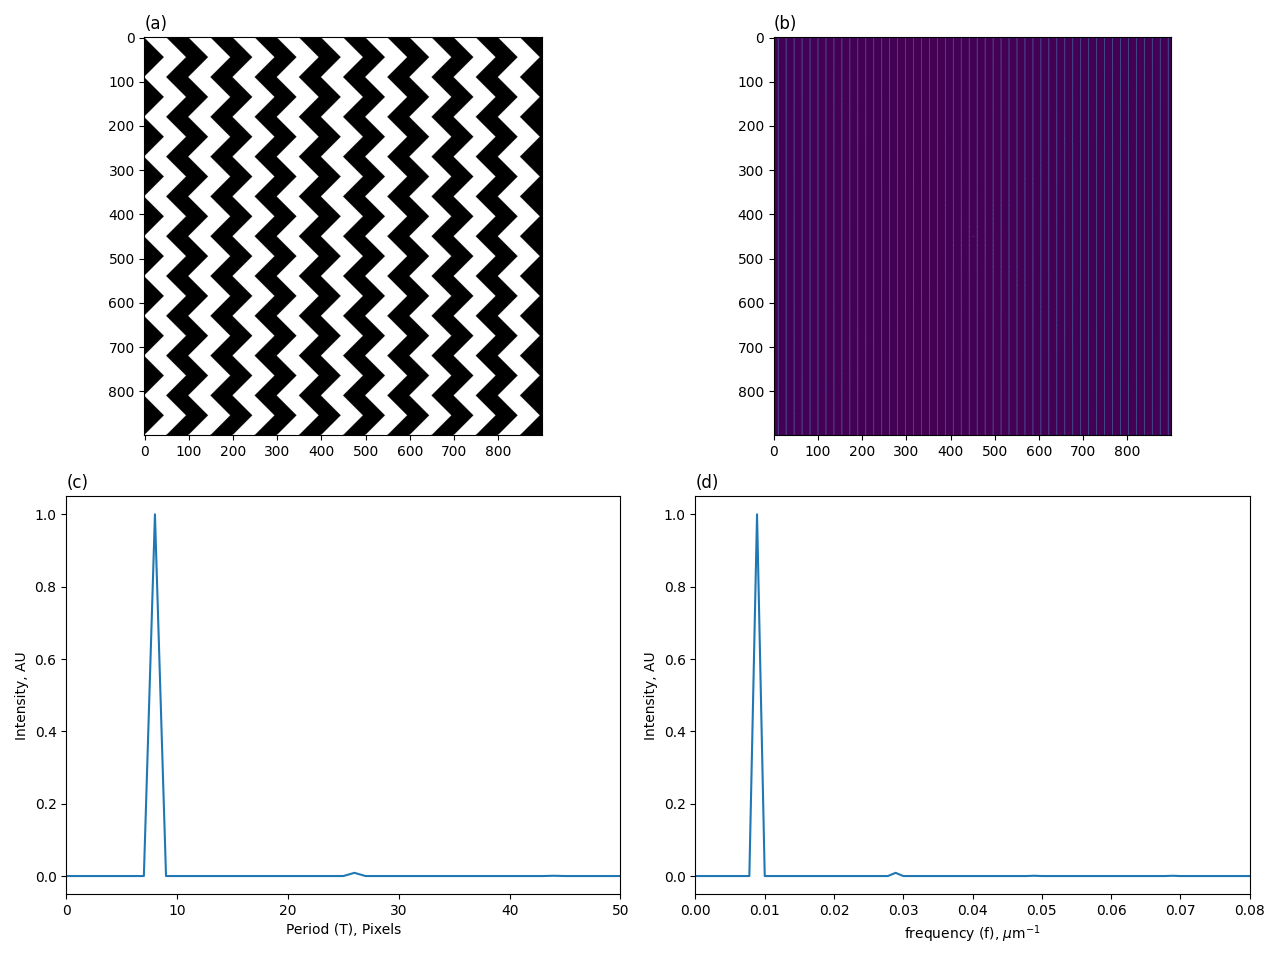
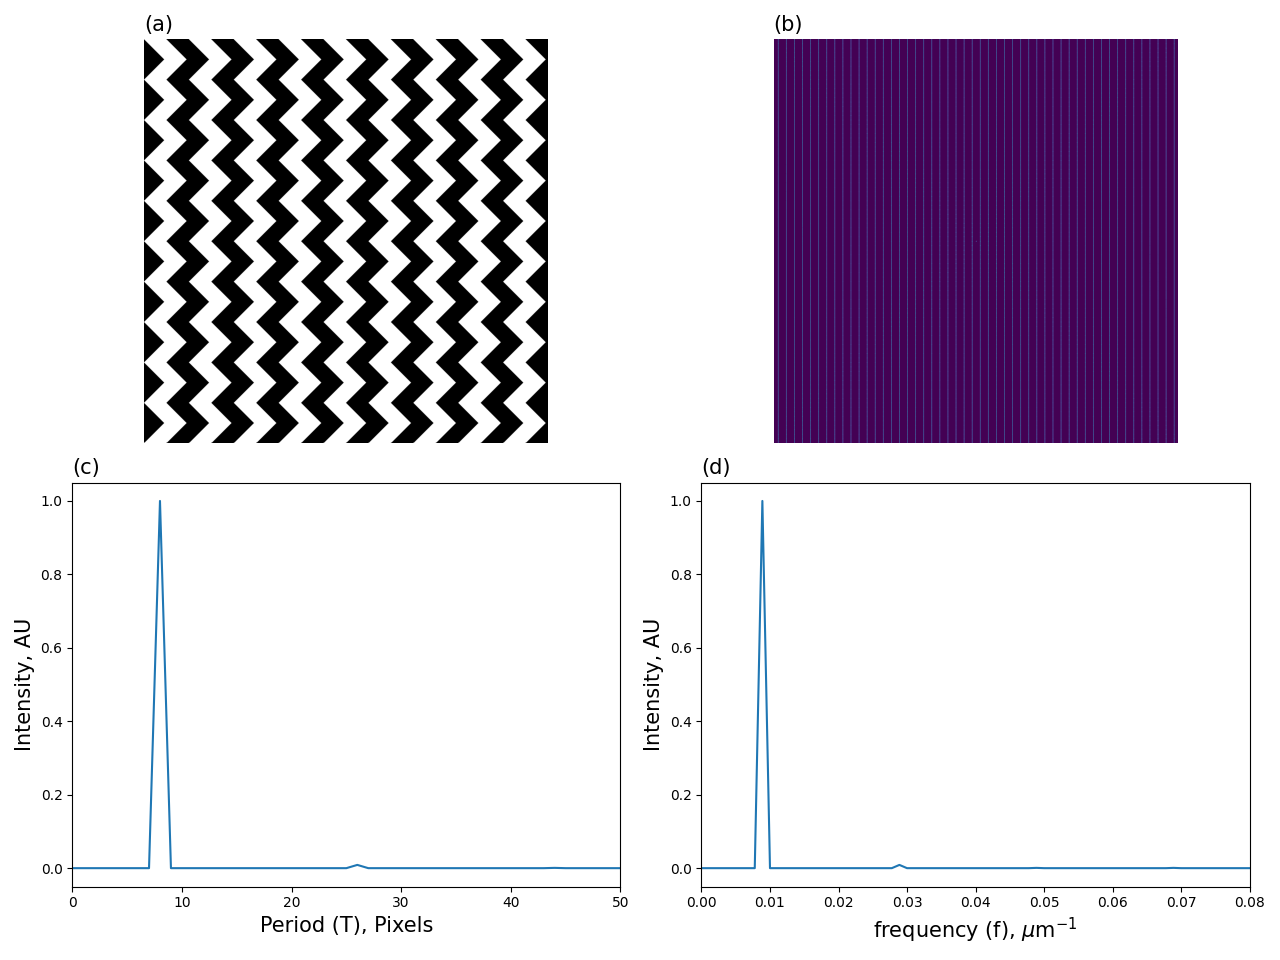
updated summary figure for the chevron test case

diff --git a/test_cases/synthetic_images/chevron/src/chevron.py b/test_cases/synthetic_images/chevron/src/chevron.py
@@ -81,26 +81,24 @@ LINEWIDTH = 3; ROLLWINDOW = 100                 # plot spec
 NROWS = 2; NCOLS = 2
 f, axs = plt.subplots(nrows=NROWS,ncols=NCOLS,
                       figsize=(NCOLS*FIGWIDTH,NROWS*FIGHEIGHT))
-axs[0,0].imshow(img_chevron, cmap='gray')
-axs[0,0].set_title("(a)", loc='left')
-# axs[0,0].set_title("(a) Original image", loc='left')
+axs[0,0].imshow(img_chevron, cmap='gray') # original image
+axs[0,0].set_title("(a)", loc='left', fontsize=TITLEFONT)
+axs[0,0].axis("off")
 
-axs[0,1].imshow(np.log(1 + psd2D))
-axs[0,1].set_title("(b)", loc='left')
-# axs[0,1].set_title("(b) Center-shifted 2D Power Spectral Density", loc='left')
+axs[0,1].imshow(np.log(1 + psd2D)) # log(1 + PSD)
+axs[0,1].set_title("(b)", loc='left', fontsize=TITLEFONT)
+axs[0,1].axis("off")
 
-axs[1,0].plot(rasp_norm_au)
-axs[1,0].set_title("(c)", loc='left')
-# axs[1,0].set_title("(c) Radially Averaged PSD", loc='left')
-axs[1,0].set_ylabel("Intensity, AU")
-axs[1,0].set_xlabel("Period (T), Pixels")
+axs[1,0].plot(rasp_norm_au) # radially averaged PSD
+axs[1,0].set_title("(c)", loc='left', fontsize=TITLEFONT)
+axs[1,0].set_ylabel("Intensity, AU", fontsize=TITLEFONT)
+axs[1,0].set_xlabel("Period (T), Pixels", fontsize=TITLEFONT)
 axs[1,0].set_xlim([0,50])
 
-axs[1,1].plot(1/lam[:rasp_length],rasp_norm_au)
-axs[1,1].set_title("(d)", loc='left')
-# axs[1,1].set_title("(d) Radially Averaged PSD in Spatial Frequency", loc='left')
-axs[1,1].set_ylabel("Intensity, AU")
-axs[1,1].set_xlabel("frequency (f), $\mu$m$^{-1}$")
+axs[1,1].plot(1/lam[:rasp_length],rasp_norm_au) # radially averaged PSD in spatial frequency
+axs[1,1].set_title("(d)", loc='left', fontsize=TITLEFONT)
+axs[1,1].set_ylabel("Intensity, AU", fontsize=TITLEFONT)
+axs[1,1].set_xlabel("frequency (f), $\mu$m$^{-1}$", fontsize=TITLEFONT)
 axs[1,1].set_xlim([0,0.08])
 
 f.tight_layout()
